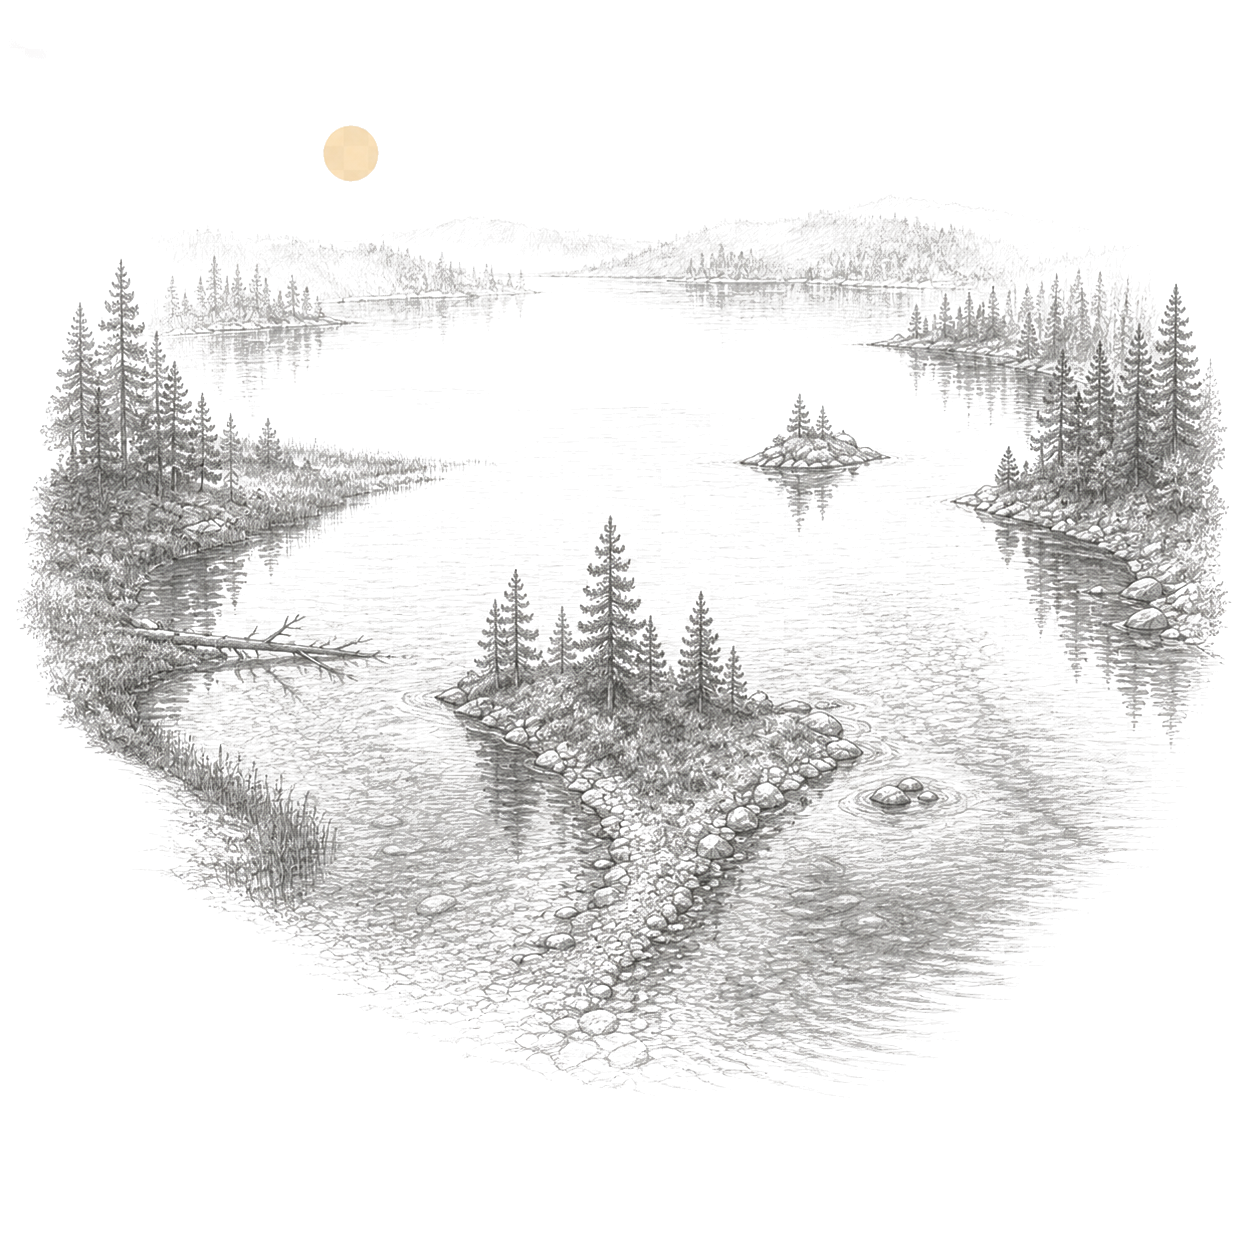
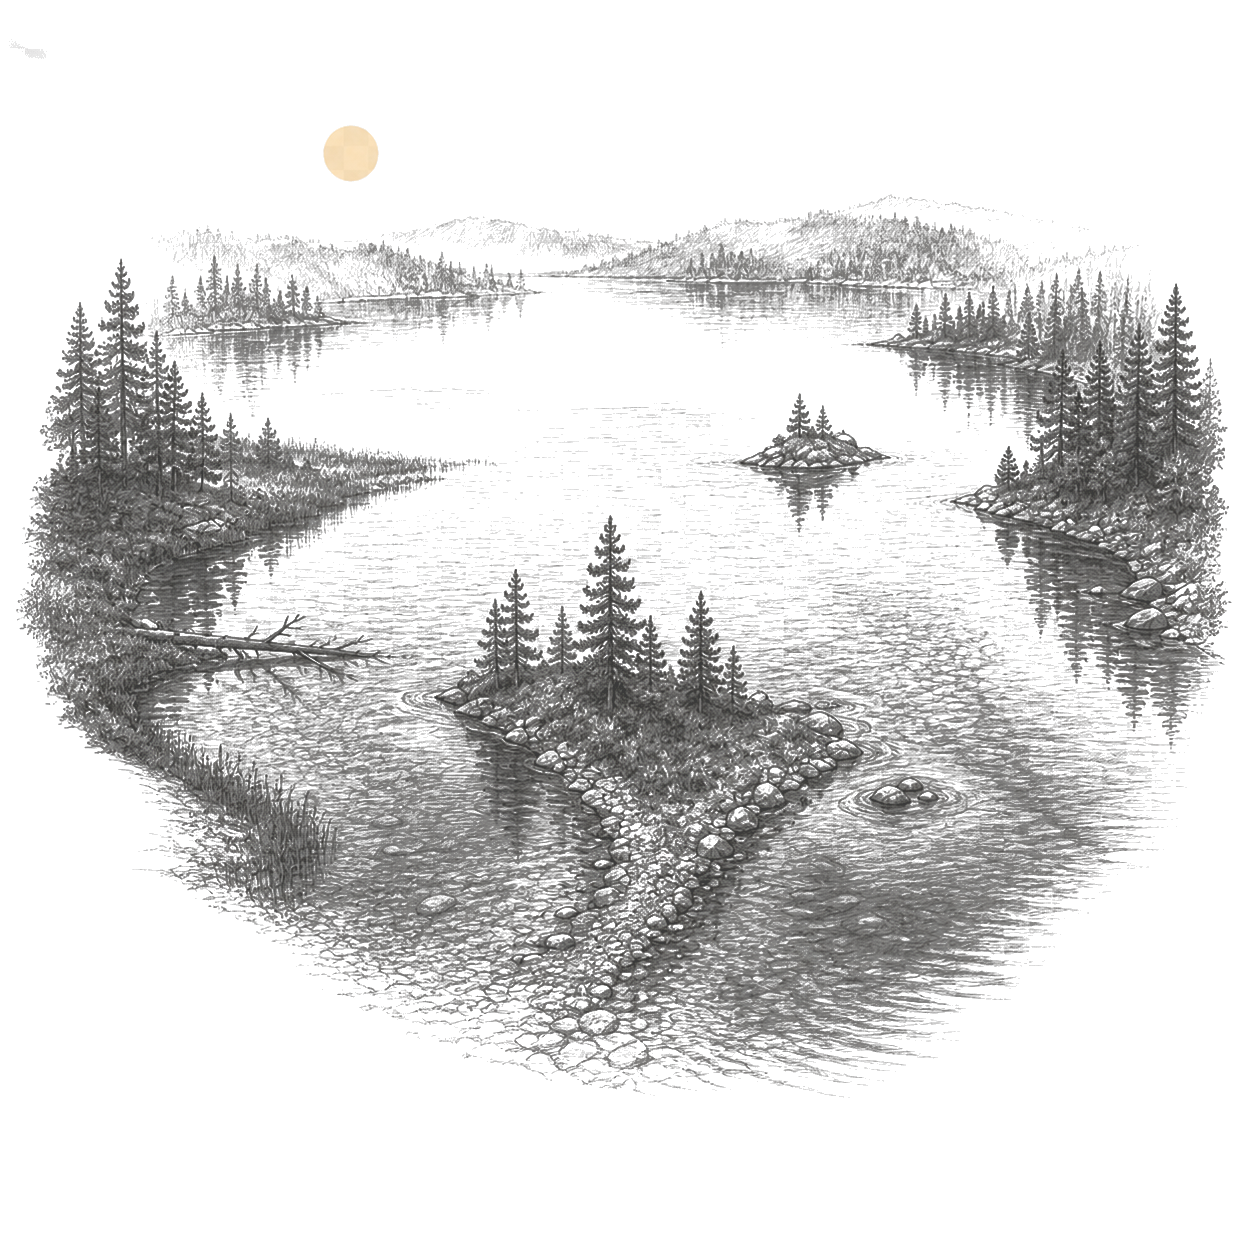
Fix Today Bite meter and Water Read art

diff --git a/TightLinesAI/components/fishing/HowFishingLoadingSkeleton.tsx b/TightLinesAI/components/fishing/HowFishingLoadingSkeleton.tsx
@@ -74,26 +74,33 @@ export function HowFishingLoadingSkeleton() {
           <Bone style={[styles.heroHeadlineBone, styles.heroHeadlineBoneAccent]} />
         </View>
 
-        {/* Linear score gauge — score number + track + scale + band pill. */}
         <View style={styles.gaugeWrap}>
-          <View style={styles.gaugeScoreRow}>
-            <Bone style={styles.gaugeScoreBone} />
-            <Bone style={styles.gaugeScoreMaxBone} />
-          </View>
-          <View style={styles.gaugeTrackRow}>
-            <View style={styles.gaugeTrack}>
-              <View style={[styles.gaugeStop, { backgroundColor: paper.bandTough, opacity: 0.45 }]} />
-              <View style={[styles.gaugeStop, { backgroundColor: paper.bandFair, opacity: 0.45 }]} />
-              <View style={[styles.gaugeStop, { backgroundColor: paper.bandPrime, opacity: 0.45 }]} />
+          <View style={styles.gaugePanel}>
+            <View style={styles.gaugePanelHeader}>
+              <Bone style={styles.gaugePanelLabelBone} />
+              <View style={styles.gaugeBandPill}>
+                <Bone style={styles.gaugeBandPillBone} />
+              </View>
             </View>
-          </View>
-          <View style={styles.gaugeScaleRow}>
-            <Bone style={styles.gaugeScaleBone} />
-            <Bone style={styles.gaugeScaleBone} />
-            <Bone style={styles.gaugeScaleBone} />
-          </View>
-          <View style={styles.gaugeBandPill}>
-            <Bone style={styles.gaugeBandPillBone} />
+            <View style={styles.gaugeScoreRow}>
+              <Bone style={styles.gaugeScoreHalo} />
+              <Bone style={styles.gaugeScoreBone} />
+              <Bone style={styles.gaugeScoreMaxBone} />
+            </View>
+            <View style={styles.gaugeTrackRow}>
+              <View style={styles.gaugeTrack}>
+                <View style={[styles.gaugeStop, { flex: 3.5, backgroundColor: paper.bandTough, opacity: 0.45 }]} />
+                <View style={[styles.gaugeStop, { flex: 1.5, backgroundColor: paper.bandPoor, opacity: 0.45 }]} />
+                <View style={[styles.gaugeStop, { flex: 1.5, backgroundColor: paper.bandFair, opacity: 0.45 }]} />
+                <View style={[styles.gaugeStop, { flex: 1.5, backgroundColor: paper.bandGood, opacity: 0.45 }]} />
+                <View style={[styles.gaugeStop, { flex: 2, backgroundColor: paper.bandPrime, opacity: 0.45 }]} />
+              </View>
+            </View>
+            <View style={styles.gaugeScaleRow}>
+              <Bone style={styles.gaugeScaleBone} />
+              <Bone style={styles.gaugeScaleBone} />
+              <Bone style={styles.gaugeScaleBone} />
+            </View>
           </View>
         </View>
 
@@ -227,21 +234,59 @@ const styles = StyleSheet.create({
   gaugeWrap: {
     alignSelf: 'stretch',
     alignItems: 'center',
-    marginTop: paperSpacing.sm + 2,
-    marginBottom: paperSpacing.xs + 2,
+    marginTop: paperSpacing.sm,
+    marginBottom: paperSpacing.xs,
+  },
+  gaugePanel: {
+    alignSelf: 'stretch',
+    borderWidth: 1,
+    borderColor: paper.dashboardLine,
+    borderRadius: 12,
+    backgroundColor: '#F7FAFB',
+    paddingHorizontal: 14,
+    paddingTop: 10,
+    paddingBottom: 12,
+  },
+  gaugePanelHeader: {
+    flexDirection: 'row',
+    alignItems: 'center',
+    justifyContent: 'space-between',
+    gap: 10,
+    marginBottom: 2,
+  },
+  gaugePanelLabelBone: {
+    height: 9,
+    width: 112,
+    backgroundColor: paper.dashboardBlue,
+    opacity: 0.3,
   },
   gaugeScoreRow: {
+    alignSelf: 'stretch',
     flexDirection: 'row',
     alignItems: 'flex-end',
     gap: 6,
-    marginBottom: 10,
+    marginBottom: 6,
+    paddingHorizontal: 12,
+    paddingTop: 2,
+    paddingBottom: 4,
+    position: 'relative',
+  },
+  gaugeScoreHalo: {
+    position: 'absolute',
+    top: 0,
+    bottom: 0,
+    left: 0,
+    right: 0,
+    borderRadius: 12,
+    backgroundColor: paper.dashboardBlue,
+    opacity: 0.1,
   },
   gaugeScoreBone: {
-    height: 40,
-    width: 72,
+    height: 38,
+    width: 74,
     borderRadius: 6,
-    backgroundColor: paper.dashboardBlue,
-    opacity: 0.25,
+    backgroundColor: paper.dashboardInk,
+    opacity: 0.22,
   },
   gaugeScoreMaxBone: {
     height: 16,
@@ -250,22 +295,21 @@ const styles = StyleSheet.create({
     opacity: 0.35,
   },
   gaugeTrackRow: {
-    width: '92%',
-    marginBottom: 6,
+    width: '100%',
+    height: 22,
+    justifyContent: 'center',
   },
   gaugeTrack: {
     flexDirection: 'row',
     height: 10,
     borderRadius: 5,
     borderWidth: 1,
-    borderColor: paper.dashboardInk,
+    borderColor: paper.dashboardLine,
     overflow: 'hidden',
   },
-  gaugeStop: {
-    flex: 1,
-  },
+  gaugeStop: {},
   gaugeScaleRow: {
-    width: '92%',
+    width: '100%',
     flexDirection: 'row',
     justifyContent: 'space-between',
     marginTop: 2,
@@ -275,16 +319,15 @@ const styles = StyleSheet.create({
     width: 14,
   },
   gaugeBandPill: {
-    marginTop: 10,
-    paddingHorizontal: 14,
-    paddingVertical: 5,
+    paddingHorizontal: 10,
+    paddingVertical: 4,
     borderRadius: 999,
     backgroundColor: paper.dashboardInk,
     opacity: 0.35,
   },
   gaugeBandPillBone: {
-    height: 10,
-    width: 68,
+    height: 9,
+    width: 54,
     backgroundColor: paper.dashboardWhite,
     opacity: 0.6,
   },

diff --git a/TightLinesAI/components/fishing/RebuildReportView.tsx b/TightLinesAI/components/fishing/RebuildReportView.tsx
@@ -592,11 +592,11 @@ function LinearScoreGauge({
 
         <View style={gaugeStyles.trackRow}>
           <View style={gaugeStyles.track}>
-            <View style={[gaugeStyles.stop, { flex: 2.2, backgroundColor: paper.bandTough }]} />
-            <View style={[gaugeStyles.stop, { flex: 1.2, backgroundColor: paper.bandPoor }]} />
-            <View style={[gaugeStyles.stop, { flex: 1.6, backgroundColor: paper.bandFair }]} />
-            <View style={[gaugeStyles.stop, { flex: 2.2, backgroundColor: paper.bandGood }]} />
-            <View style={[gaugeStyles.stop, { flex: 2.8, backgroundColor: paper.bandPrime }]} />
+            <View style={[gaugeStyles.stop, { flex: 3.5, backgroundColor: paper.bandTough }]} />
+            <View style={[gaugeStyles.stop, { flex: 1.5, backgroundColor: paper.bandPoor }]} />
+            <View style={[gaugeStyles.stop, { flex: 1.5, backgroundColor: paper.bandFair }]} />
+            <View style={[gaugeStyles.stop, { flex: 1.5, backgroundColor: paper.bandGood }]} />
+            <View style={[gaugeStyles.stop, { flex: 2, backgroundColor: paper.bandPrime }]} />
           </View>
 
           <Animated.View
@@ -663,23 +663,24 @@ const gaugeStyles = StyleSheet.create({
     fontWeight: '700',
   },
   scoreRow: {
+    alignSelf: 'stretch',
     flexDirection: 'row',
     alignItems: 'flex-end',
     gap: 4,
     marginBottom: 6,
-    paddingHorizontal: 4,
+    paddingHorizontal: 12,
     paddingTop: 2,
     paddingBottom: 4,
     position: 'relative',
   },
   scoreHalo: {
     position: 'absolute',
-    top: 4,
-    bottom: 2,
+    top: 0,
+    bottom: 0,
     left: 0,
-    width: 104,
+    right: 0,
     opacity: 0.1,
-    borderRadius: 60,
+    borderRadius: 12,
   },
   scoreNum: {
     fontFamily: paperFonts.monoBold,

diff --git a/TightLinesAI/app/water-reader.tsx b/TightLinesAI/app/water-reader.tsx
@@ -1086,6 +1086,7 @@ const styles = StyleSheet.create({
   heroHeadlineRow: {
     minHeight: 120,
     justifyContent: 'center',
+    overflow: 'visible',
   },
   heroHeadlineText: {
     maxWidth: 270,
@@ -1112,11 +1113,11 @@ const styles = StyleSheet.create({
   },
   heroPines: {
     position: 'absolute',
-    right: -48,
-    top: -44,
-    width: 260,
-    height: 190,
-    opacity: 0.9,
+    right: -54,
+    top: -76,
+    width: 286,
+    height: 286,
+    opacity: 1,
   },
 
   // Search card. Slimmed in Pass-3 so the map plate below it dominates
